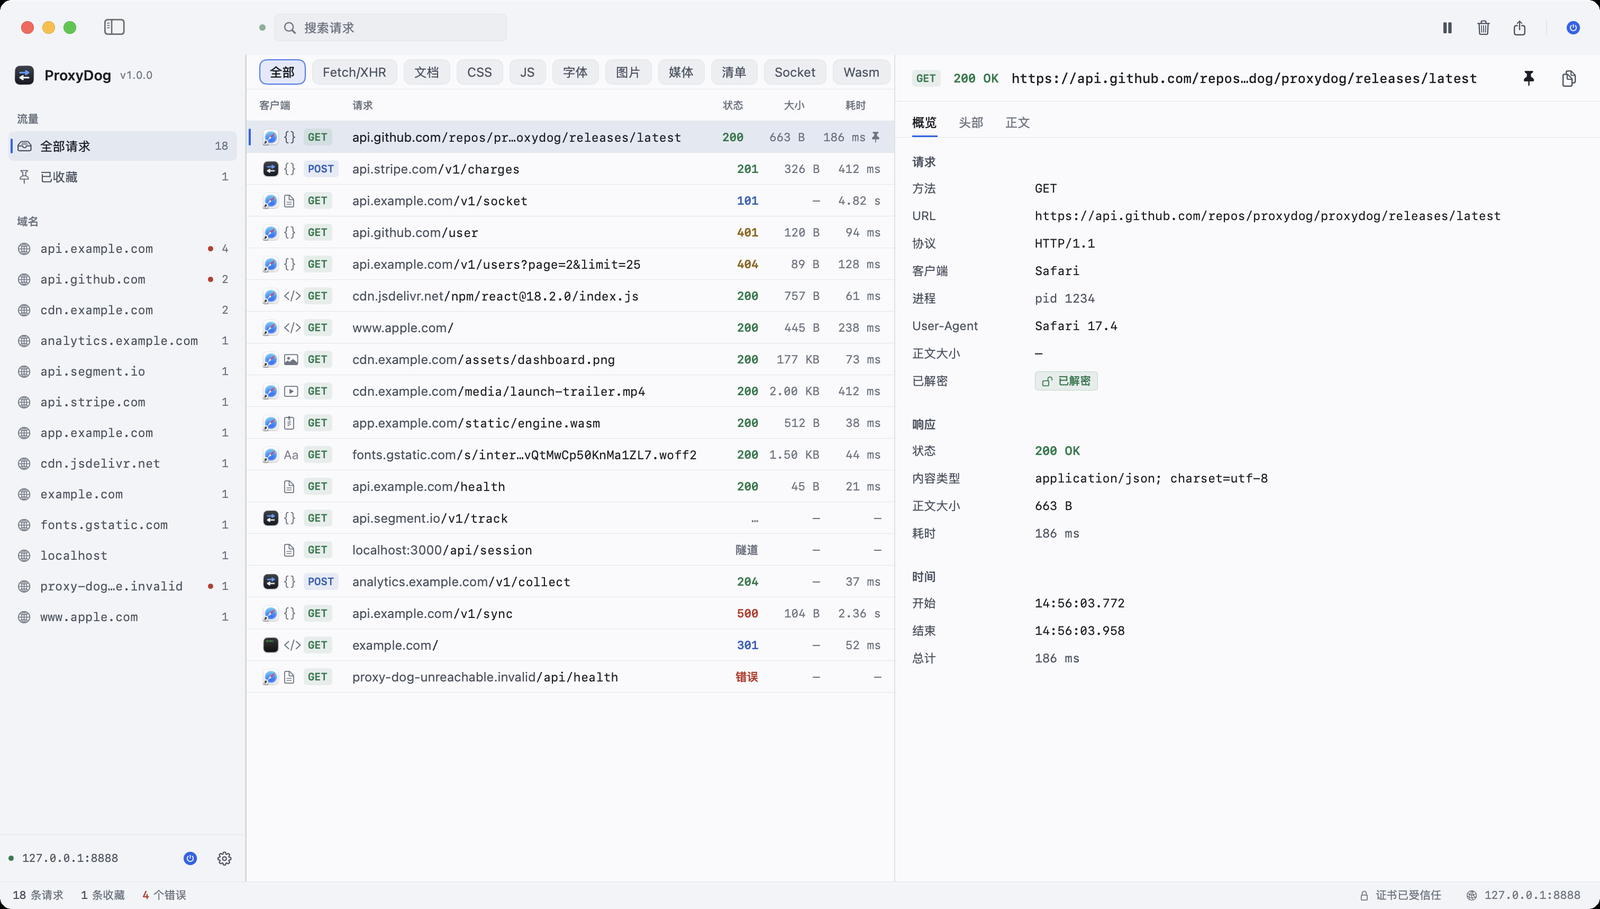
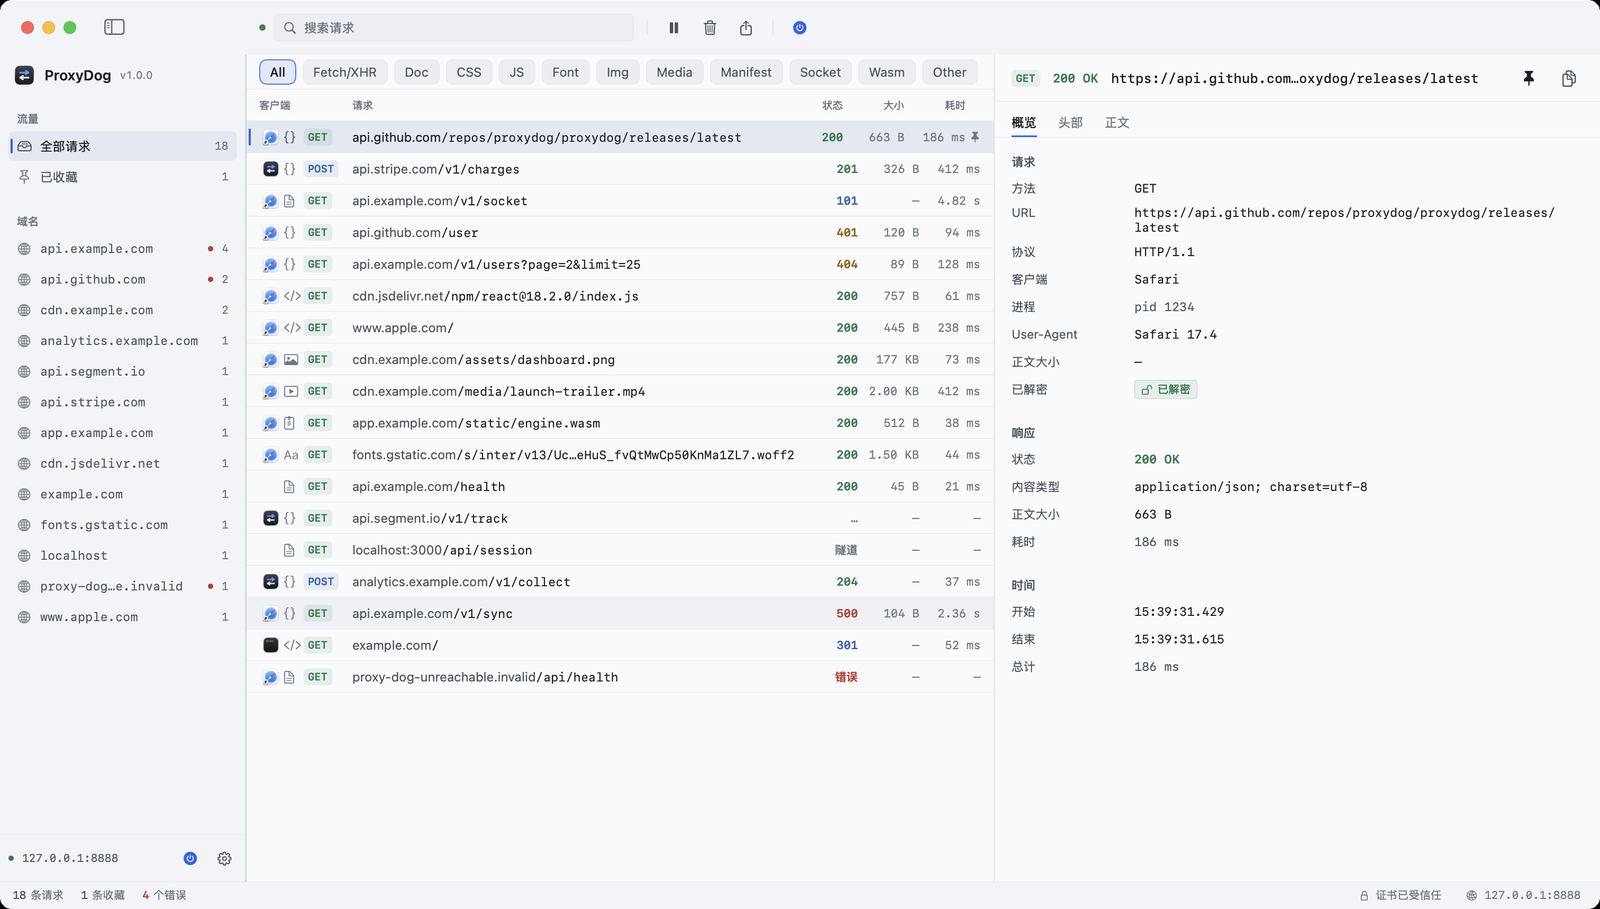
Widen the search field and group toolbar actions next to it

diff --git a/Sources/ProxyDog/UI/TrafficListView.swift b/Sources/ProxyDog/UI/TrafficListView.swift
@@ -50,6 +50,8 @@ struct TrafficListView: View {
 
     @ToolbarContentBuilder
     private var toolbarContent: some ToolbarContent {
+        // Search and the list actions live in one leading group so the buttons hug the
+        // search field instead of being pushed to the window's trailing edge.
         ToolbarItem(placement: .navigation) {
             HStack(spacing: DS.Space.x2) {
                 PDLiveDot(
@@ -57,49 +59,53 @@ struct TrafficListView: View {
                     color: captureDotColor,
                     idleColor: state.store.isPaused && state.isProxyRunning ? DSColor.amber : DSColor.textMuted
                 )
+
                 PDSearchField(
                     text: $state.searchText,
                     isFocused: $searchFocused,
                     placeholder: String(localized: "Search requests"),
-                    width: 220
+                    width: 340
                 )
+
+                Rectangle()
+                    .fill(DSColor.border)
+                    .frame(width: 1, height: 14)
+                    .padding(.horizontal, DS.Space.x1)
+
+                PDIconButton(
+                    symbol: state.store.isPaused ? "play.fill" : "pause.fill",
+                    help: state.store.isPaused
+                        ? String(localized: "Resume capturing")
+                        : String(localized: "Pause capturing"),
+                    role: state.store.isPaused ? .warning : .normal
+                ) {
+                    state.togglePause()
+                }
+
+                PDIconButton(symbol: "trash", help: String(localized: "Clear traffic")) {
+                    state.clearRequests()
+                }
+
+                PDIconButton(symbol: "square.and.arrow.up", help: String(localized: "Export HAR")) {
+                    state.presentHARExportPanel()
+                }
+
+                Rectangle()
+                    .fill(DSColor.border)
+                    .frame(width: 1, height: 14)
+                    .padding(.horizontal, DS.Space.x1)
+
+                PDIconButton(
+                    symbol: state.isProxyRunning ? "power.circle.fill" : "power",
+                    help: state.isProxyRunning
+                        ? String(localized: "Stop proxy")
+                        : String(localized: "Start proxy"),
+                    role: state.isProxyRunning ? .accent : .normal
+                ) {
+                    state.toggleProxy()
+                }
             }
             .padding(.trailing, DS.Space.x2)
-        }
-
-        ToolbarItemGroup(placement: .primaryAction) {
-            PDIconButton(
-                symbol: state.store.isPaused ? "play.fill" : "pause.fill",
-                help: state.store.isPaused
-                    ? String(localized: "Resume capturing")
-                    : String(localized: "Pause capturing"),
-                role: state.store.isPaused ? .warning : .normal
-            ) {
-                state.togglePause()
-            }
-
-            PDIconButton(symbol: "trash", help: String(localized: "Clear traffic")) {
-                state.clearRequests()
-            }
-
-            PDIconButton(symbol: "square.and.arrow.up", help: String(localized: "Export HAR")) {
-                state.presentHARExportPanel()
-            }
-
-            Rectangle()
-                .fill(DSColor.border)
-                .frame(width: 1, height: 14)
-                .padding(.horizontal, DS.Space.x1)
-
-            PDIconButton(
-                symbol: state.isProxyRunning ? "power.circle.fill" : "power",
-                help: state.isProxyRunning
-                    ? String(localized: "Stop proxy")
-                    : String(localized: "Start proxy"),
-                role: state.isProxyRunning ? .accent : .normal
-            ) {
-                state.toggleProxy()
-            }
         }
     }
 
